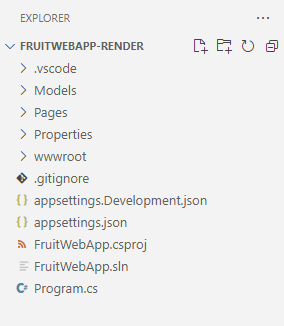
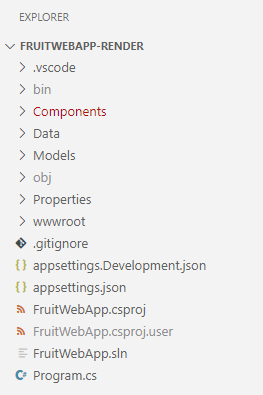
updated lab 3

diff --git a/Instructions/Labs/03-render-api-results-razor-pages.md b/Instructions/Labs/03-render-api-results-razor-pages.md
@@ -1,24 +1,24 @@
 ---
 lab:
-    title: 'Exercise: Render API responses in ASP.NET Core Razor Pages'
-    module: 'Module: Render API responses in ASP.NET Core Razor Pages'
+    title: 'Exercise: Render API responses in ASP.NET Core Blazor apps'
+    module: 'Module: Render API responses in ASP.NET Core Blazor apps'
 ---
 
-In this exercise, you learn how to add code to an ASP.NET Core Razor Pages app to render results from HTTP operations. This code is added to the *.cshtml* files. The code that performs the operations in the *.cshtml.cs* files is complete.
+In this exercise, you learn how to add code to an ASP.NET Core Blazor app to render results from HTTP operations. This code is added to the *.razor* files. The code that performs the operations in the *.razor.cs* files is complete.
 
 ## Objectives
 
 After you complete this exercise, you will be able to:
 
-* Implement Razor keywords in an app
-* Integrate C# code with Razor Pages syntax
+* Implement Razor syntax in an app
+* Integrate C# code with Razor syntax
 
 ## Prerequisites
 
 To complete the exercise you need to have the following installed on your system:
 
 * [Visual Studio Code](https://code.visualstudio.com)
-* [The latest .NET 7.0 SDK](https://dotnet.microsoft.com/download/dotnet/7.0)
+* [The latest .NET 8.0 SDK](https://dotnet.microsoft.com/download/dotnet/8.0)
 * [The C# extension](https://marketplace.visualstudio.com/items?itemName=ms-dotnettools.csharp) for Visual Studio Code
 
 **Estimated exercise completion time**: 30 minutes
@@ -92,53 +92,50 @@ In this section you download the code for the Fruit web app and the Fruit API. Y
 
 >**Note:** Take time to review the code in each of the files being edited throughout this exercise. The code is heavily commented and can help you understand the code base.
 
-## Implement code to render data on the Index page
+## Implement code to render data on the Home page
 
 The Fruit web app displays the API sample data on the home page. You need to add code to iterate through the sample data returned by the HTTP `GET` operation performed in the code-behind file.
 
 ### Task 1: Add code to render data in a table
 
-1. Select the *Index.cshtml* file in the  **Explorer** pane to open it for editing.
+1. Select the *Home.razor* file in the  **Explorer** pane to open it for editing.
 
 1. Add the following code between the `@* Begin render API data code block *@` and `@* End render API data code block *@` comments.
 
-    ```csharp
+    ```razor
     <tbody>
-        
-        @*  The Razor keyword @foreach is used to iterate through the
+        @*  The Razor explicit expression @foreach is used to iterate through the
             data returned to the data model from the HTTP operations. *@
-        @foreach (var obj in Model.FruitModels)
+        @foreach (var obj in _fruitList ?? [])
         {
             <tr>
                 @* Display the name of the fruit. *@
                 <td width="50%">@obj.name</td>
-                @*  The following if statment is a Razor code block that changes the color 
-                    and icon of the available indicator in the page rendering. *@
+                @*  The following if statment changes the true/false of instock to Yes/No. *@
                 @{
                     if (@obj.instock)
                     {
                         <td width="20%" class="text-md-center">
-                            <i class="bi bi-check-circle" style="font-size: 1rem; color: green;"></i>&nbsp;Yes
+                            Yes
                         </td>
                     }
                     else
                     {
                         <td width="20%" class="text-md-center">
-                            <i class="bi bi-dash-circle" style="font-size: 1rem; color:red;"></i>&nbsp;No
+                            No
                         </td>
                     }
                 }
                 <td width="30%" class="text-center">
-                    @*  The following div contains information to handle the edit and delete functions. *@
+                    @* The following div renders the Edit and Delete buttons that pass the Id 
+                        to a function that handles the navigation and passes the Id to the page. *@
                     <div class="w-75 btn-group btn-group-sm" role="group" style="text-align:center">
-                        @* Routes to the Edit page and passes the id of the record. *@
-                        <a asp-page="Edit" asp-route-id="@obj.id" class="btn btn-primary  mx-2">
-                            <i class="bi bi-pencil-square"></i> Edit
-                        </a>
-                        @* Routes to the Delete page and passes the id of the record. *@
-                        <a asp-page="Delete" asp-route-id="@obj.id" class="btn btn-danger mx-2">
-                            <i class="bi bi-trash"></i> Delete
-                        </a>
+                        <button class="btn btn-primary  mx-2" @onclick="() => EditButton(obj.id)">
+                            Edit
+                        </button>
+                        <button class="btn btn-danger mx-2" @onclick="() => DeleteButton(obj.id)">
+                            Delete
+                        </button>
                     </div>
                 </td>
             </tr>
@@ -146,7 +143,7 @@ The Fruit web app displays the API sample data on the home page. You need to add
     </tbody>
     ```
 
-1. Save the changes to *Index.cshtml*, and review the comments in the code.
+1. Save the changes to *Home.razor*, and review the comments in the code.
 
 1. In the Visual Studio Code top menu select **Run \| Start debugging**, or select **F5**. After the project is finished building a browser window should launch with the web app running
 
@@ -162,45 +159,44 @@ The Fruit web app displays the API sample data on the home page. You need to add
 
 ## Implement code to handle the **Add to list** functionality
 
-The add, edit, and delete operations are each handled on a separate *.cshtml* page in the project. In this section you add code to create a form in the *Add.cshtml* file to enable adding data to the list.
+The add, edit, and delete operations are each handled on a separate *.razor* page in the project. In this section you add code to create a form in the *Add.razor* file to enable adding data to the list.
 
 ### Task 1: Add code to create the add data form
 
-1. Select the *Add.cshtml* file in the  **Explorer** pane to open it for editing.
+1. Select the *Add.razor* file in the  **Explorer** pane to open it for editing.
 
 1. Add the following code between the `@* Begin render Add code block *@` and `@* End render Add code block *@` comments.
 
     ```csharp
-    <form method="post">
-        @* 	The FruitModels.id is here so the full data model is represented on the page.
+    @* Data is added using a Razor form, the data model is bound to the form.*@
+    <EditForm OnSubmit="Submit" FormName="AddFruit" Model="_fruitList">
+    	@* 	The _fruitList.id is here so the full data model is represented on the page.
     		The database behind the API will assign the id. *@
-    	<input hidden asp-for="FruitModels.id" />
+    	<InputNumber hidden="true" @bind-Value="_fruitList!.id" />
     	<div class="border p-3 mt-4" style="width:50%">
     		<div class="row pb-2">
     			<h2 class="text-primary pl-3">Add Fruit</h2>
     			<hr />
     		</div>
     		<div class="mb-3">
-    			<label asp-for="FruitModels.name" class="h5"></label><br/>
+    			<label class="h5"></label><br />
     			@* Empty text box for the name of the fruit to be added. *@
-    			<input type="text" asp-for="FruitModels.name" />
-    			<span asp-validation-for="FruitModels.name" class="text-danger"></span>
+    			<InputText @bind-Value="_fruitList!.name" />
     		</div>
     		<div class="mb-3">
-    			<label asp-for="FruitModels.instock" class="h5"></label><br/>
+    			<label class="h5"></label><br />
     			@* Render the true/false instock state from the record in an editable checkbox. *@
-    			<input type="checkbox" asp-for="FruitModels.instock" style="width:20px; height:20px" />
-    			<label class="h7"><i class="bi bi-arrow-left"></i>  Check the box if it's available.</label>
-    			<span asp-validation-for="FruitModels.instock" class="text-danger"></span>
+    			<InputCheckbox @bind-value="_fruitList!.instock" style="width:20px; height:20px" />
+    			<label class="h7">Check the box if it's available.</label>
     		</div>
     		@* Submit the addition or return to the Index page if the Add is cancelled.*@
-    		<button type="submit" class="btn btn-primary" style="width:150px;">Create</button>
-    		<a asp-page="Index" class="btn btn-secondary" style="width:150px;">Cancel</a>
+    		<button @onclick="() => Submit()" class="btn btn-primary" style="width:150px;">Create</button>
+    		<a class="btn btn-secondary" style="width:150px;" href="/">Cancel</a>
     	</div>
-    </form>
+    </EditForm>
     ```
-
-1. Save the changes to *Add.cshtml*, and review the comments in the code.
+    
+1. Save the changes to *Add.razor*, and review the comments in the code.
 
 1. In the Visual Studio Code top menu select **Run \| Start debugging**, or select **F5**. After the project is finished building a browser window should launch with the web app running
 
@@ -218,15 +214,16 @@ In this section you add code to create a form in the *Edit.cshtml* file to enabl
 
 ### Task 1: Add code for the edit form
 
-1. Select the *Edit.cshtml* file in the  **Explorer** pane to open it for editing.
+1. Select the *Edit.razor* file in the  **Explorer** pane to open it for editing.
 
 1. Add the following code between the `@* Begin render Edit code block *@` and `@* End render Edit code block *@` comments.
 
     ```csharp
-    <form method="post">
-        @* 	The id for the data record is hidden because it needs to be available to the 
+    @* Data is edited using a Razor form, the data model is bound to the form.*@
+    <EditForm OnSubmit="Submit" FormName="EditFruit" Model="_fruitList">
+    	@* 	The id for the data record is hidden because it needs to be available to the 
     		code-behind processing, but it's not displayed. *@
-    	<input hidden asp-for="FruitModels.id" />
+        <InputNumber hidden="true" @bind-value="_fruitList!.id" />
     	<div class="border p-3 mt-4" style="width:50%">
     		<div class="row pb-2">
     			<h2 class="text-primary pl-3">Edit Fruit</h2>
@@ -234,25 +231,23 @@ In this section you add code to create a form in the *Edit.cshtml* file to enabl
     		</div>
     		<div class="mb-3">
     			<label asp-for="FruitModels.name" class="h5"></label><br/>
-    			@* Render the current name of the fruit in an editable text box. *@
-    			<input type="text" asp-for="FruitModels.name" />
-    			<span asp-validation-for="FruitModels.name" class="text-danger"></span>
+    			@* Render the name of the fruit in an editable text box. *@
+    			<InputText @bind-value="_fruitList!.name" />
     		</div>
     		<div class="mb-3">
-    			<label asp-for="FruitModels.instock" class="h5"></label><br/>
+    			<label  class="h5"></label><br/>
     			@* Render the true/false instock state from the record in an editable checkbox. *@
-    			<input type="checkbox" asp-for="FruitModels.instock" style="width:20px; height:20px" />
+    			<InputCheckbox @bind-value="_fruitList!.instock" style="width:20px; height:20px" />
     			<label class="h7"><i class="bi bi-arrow-left"></i>  Check the box if available.</label>
-    			<span asp-validation-for="FruitModels.instock" class="text-danger"></span>
     		</div>
-    		@* Submit the changes or return to the Index page if the edit is cancelled.*@
-    		<button type="submit" class="btn btn-primary" style="width:150px;">Update</button>
-    		<a asp-page="Index" class="btn btn-secondary" style="width:150px;">Cancel</a>
+    		@* Submit the changes or return to the Index page if the Edit is cancelled.*@
+    		<button type="submit" class="btn btn-danger " style="width:150px;">Save</button>
+    		<a class="btn btn-secondary" style="width:150px;" href="/">Cancel</a>
     	</div>
-    </form>
+    </EditForm>
     ```
 
-1. Save the changes to *Edit.cshtml*, and review the comments in the code.
+1. Save the changes to *Edit.razor*, and review the comments in the code.
 
 1. In the Visual Studio Code top menu select **Run \| Start debugging**, or select **F5**. After the project is finished building a browser window should launch with the web app running
 
@@ -270,15 +265,16 @@ In this section you add code to create a form in the *Delete.cshtml* file to ena
 
 ### Task 1: Add code for the delete form
 
-1. Select the *Delete.cshtml* file in the  **Explorer** pane to open it for editing.
+1. Select the *Delete.razor* file in the  **Explorer** pane to open it for editing.
 
 1. Add the following code between the `@* Begin render Delete code block *@` and `@* End render Delete code block *@` comments.
 
     ```csharp
-    <form method="post">
-    	@* 	The id for the data record is hidden because it needs to be avaialable to the 
+    @* Data is deleted using a Razor form, the data model is bound to the form.*@
+    <EditForm OnSubmit="Submit" FormName="DeleteFruit" Model="_fruitList">
+    	@* 	The id for the data record is hidden because it needs to be available to the 
     		code-behind processing, but it's not displayed. *@
-        <input hidden asp-for="FruitModels.id" />
+        <InputNumber hidden="true" @bind-value="_fruitList!.id" />
     	<div class="border p-3 mt-4" style="width:50%">
     		<div class="row pb-2">
     			<h2 class="text-primary pl-3">Delete Fruit</h2>
@@ -287,23 +283,22 @@ In this section you add code to create a form in the *Delete.cshtml* file to ena
     		<div class="mb-3">
     			<label asp-for="FruitModels.name" class="h5"></label><br/>
     			@* Render the name of the fruit in a non-editable text box. *@
-    			<input type="text" asp-for="FruitModels.name" disabled/>
-    			<span asp-validation-for="FruitModels.name" class="text-danger"></span>
+    			<InputText @bind-value="_fruitList!.name" Disabled/>
     		</div>
     		<div class="mb-3">
-    			<label asp-for="FruitModels.instock" class="h5"></label><br/>
+    			<label  class="h5"></label><br/>
     			@* Render the true/false instock state from the record in a non-editable checkbox. *@
-    			<input type="checkbox" asp-for="FruitModels.instock" style="width:20px; height:20px" disabled  />
-    			<span asp-validation-for="FruitModels.instock" class="text-danger"></span>
+    			<InputCheckbox @bind-value="_fruitList!.instock" style="width:20px; height:20px" Disabled  />
+    			<label class="h7">Check the box if available.</label>
     		</div>
     		@* Submit the changes or return to the Index page if the delete is cancelled.*@
     		<button type="submit" class="btn btn-danger " style="width:150px;">Delete</button>
-    		<a asp-page="Index" class="btn btn-secondary" style="width:150px;">Cancel</a>
+    		<a class="btn btn-secondary" style="width:150px;" href="/">Cancel</a>
     	</div>
-    </form>
+    </EditForm>
     ```
 
-1. Save the changes to *Delete.cshtml*, and review the comments in the code.
+1. Save the changes to *Delete.razor*, and review the comments in the code.
 
 1. In the Visual Studio Code top menu select **Run \| Start debugging**, or select **F5**. After the project is finished building a browser window should launch with the web app running
 
